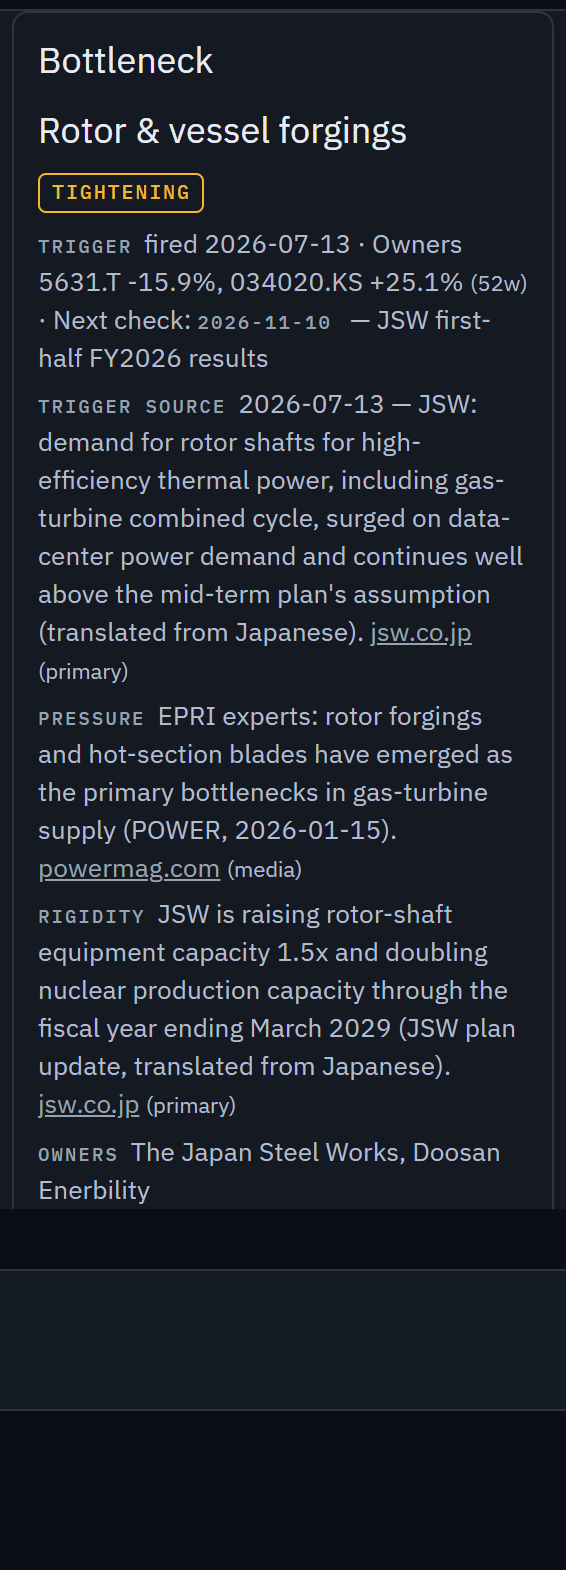
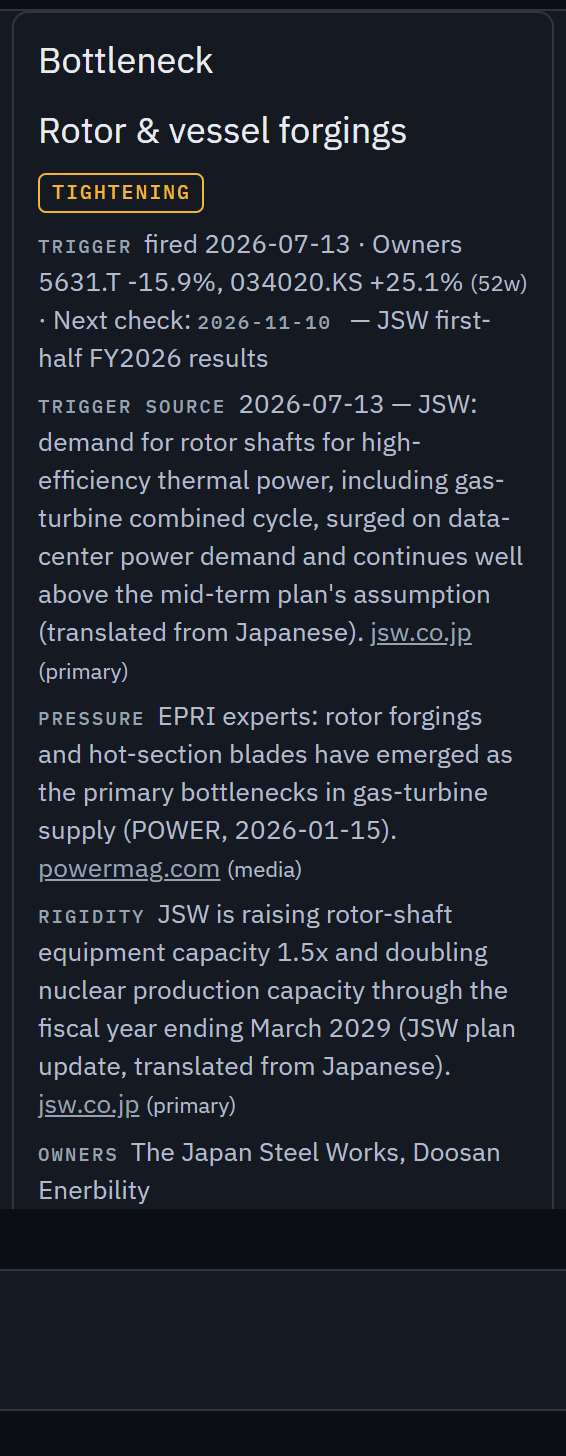
Tier-A cards: one next-check line; shorter magnet catalyst labels

Changed region(s): [[0.0601, 0.0309, 0.9311, 0.8345], [0.9611, 0.7727, 0.9912, 0.8345], [0.0, 0.7727, 0.03, 0.8345]]

diff --git a/chains/templates/live-map-en.html b/chains/templates/live-map-en.html
@@ -830,14 +830,12 @@ function bnCard(b, nid){
     + (o&&o.source_type?` <small>(${escHtml(o.source_type)})</small>`:'');
   const row=(l,f)=>f?`<div class="bnrow"><b>${l}</b>${escHtml(f.text||'')}${f.via?` <small>(${BN.via} ${escHtml(f.via)})</small>`:''}${src(f)}</div>`:'';
   const list=(l,ids)=>(ids||[]).length?`<div class="bnrow"><b>${l}</b>${ids.map(nm).join(', ')}</div>`:'';
-  const nx=nextCheck(b);
   return `<div class="bnbox" data-bottleneck="${b.id}"><div class="bnhead"><span class="cpid">${BN.title}</span><span class="cpn">${escHtml(b.name)}</span><span class="bnstage s-${b.stage}">${BN.stage[b.stage]||b.stage}${b.top_risk?` · ${BN.risk} ${b.top_risk}/7`:''}</span></div>`
     + bnSummary(b)
     + (t.source_url?`<div class="bnrow" data-trigger-source><b>${BN.tsrc}</b>${t.date?escHtml(t.date)+' — ':''}${escHtml(t.what||'')}${src(t)}</div>`:'')
     + row(BN.pressure, bnField(b,'pressure')) + row(BN.rigidity, bnField(b,'rigidity'))
     + list(BN.owners,b.owners)+list(BN.hurt,b.hurt)+list(BN.prop,b.propagation)
     + ((b.kill||[]).length?`<div class="bnrow"><b>${BN.kill}</b>${b.kill.map(k=>escHtml(k.criterion)+(k.date?' ('+k.date+')':'')).join('; ')}</div>`:'')
-    + (nx?`<div class="nextcp" data-next-check>${BN.next}: <b>${escHtml(nx.date_text||nx.date)}</b> — ${escHtml(nx.what)}</div>`:'')
     + `</div>`; }
 function bnCards(n){ const F=(typeof FOCUS!=='undefined'&&FOCUS)||{};
   return (F.bottlenecks||[]).filter(b=>bnPublic(b)&&[...b.owners,...b.hurt,...b.propagation].includes(n.id)).map(b=>bnCard(b,n.id)).join(''); }

diff --git a/chains/templates/live-map.html b/chains/templates/live-map.html
@@ -830,14 +830,12 @@ function bnCard(b, nid){
     + (o&&o.source_type?` <small>(${escHtml(o.source_type)})</small>`:'');
   const row=(l,f)=>f?`<div class="bnrow"><b>${l}</b>${escHtml(f.text||'')}${f.via?` <small>(${BN.via} ${escHtml(f.via)})</small>`:''}${src(f)}</div>`:'';
   const list=(l,ids)=>(ids||[]).length?`<div class="bnrow"><b>${l}</b>${ids.map(nm).join(', ')}</div>`:'';
-  const nx=nextCheck(b);
   return `<div class="bnbox" data-bottleneck="${b.id}"><div class="bnhead"><span class="cpid">${BN.title}</span><span class="cpn">${escHtml(b.name)}</span><span class="bnstage s-${b.stage}">${BN.stage[b.stage]||b.stage}${b.top_risk?` · ${BN.risk} ${b.top_risk}/7`:''}</span></div>`
     + bnSummary(b)
     + (t.source_url?`<div class="bnrow" data-trigger-source><b>${BN.tsrc}</b>${t.date?escHtml(t.date)+' — ':''}${escHtml(t.what||'')}${src(t)}</div>`:'')
     + row(BN.pressure, bnField(b,'pressure')) + row(BN.rigidity, bnField(b,'rigidity'))
     + list(BN.owners,b.owners)+list(BN.hurt,b.hurt)+list(BN.prop,b.propagation)
     + ((b.kill||[]).length?`<div class="bnrow"><b>${BN.kill}</b>${b.kill.map(k=>escHtml(k.criterion)+(k.date?' ('+k.date+')':'')).join('; ')}</div>`:'')
-    + (nx?`<div class="nextcp" data-next-check>${BN.next}: <b>${escHtml(nx.date_text||nx.date)}</b> — ${escHtml(nx.what)}</div>`:'')
     + `</div>`; }
 function bnCards(n){ const F=(typeof FOCUS!=='undefined'&&FOCUS)||{};
   return (F.bottlenecks||[]).filter(b=>bnPublic(b)&&[...b.owners,...b.hurt,...b.propagation].includes(n.id)).map(b=>bnCard(b,n.id)).join(''); }

diff --git a/tests/test_domains.py b/tests/test_domains.py
@@ -115,11 +115,12 @@ def test_the_repository_carries_at_least_the_default_domain():
 # move any benchmark.
 # Moved again on purpose 2026-10-02 (watchlist tier A): node neo and the
 # exchina_magnets bottleneck with its two catalysts, then its sourced trigger and
-# its pressure/rigidity linked to heavy_rare_earths. New nodes are in no
+# its pressure/rigidity linked to heavy_rare_earths, and shorter catalyst labels.
+# New nodes are in no
 # committed question's frozen EW universe.
 GOLD = {
[4 lines of base64/hex data omitted]
 }
 MOVED = ("the first domain's output moved. If the map changed on purpose, "
          "update the hash here in the same commit and say so; if it did not, "
